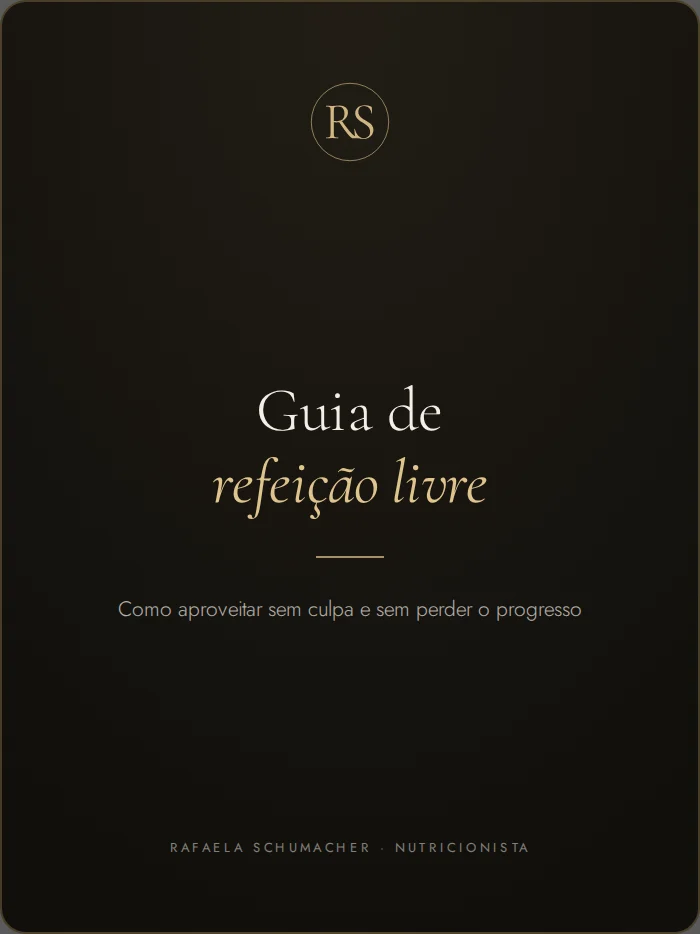
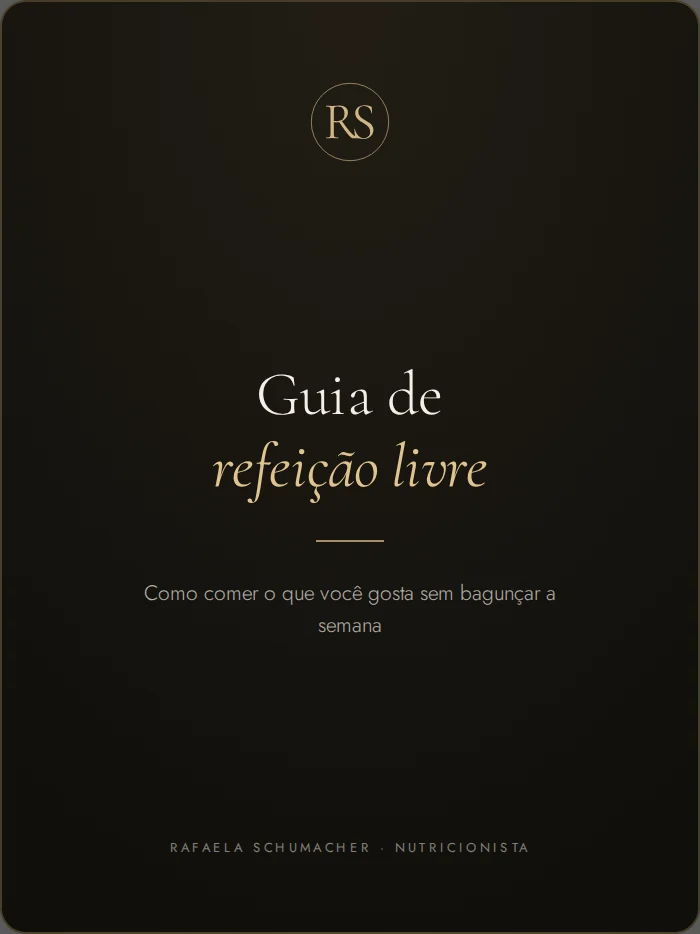
Reescreve os textos da secao de guias
A usuaria apontou que a redacao anterior soava a texto de maquina, e
estava certa. O que saiu e por que:

- "Guias para as horas em que o plano costuma escapar" era metafora
  construida; ninguem fala em plano que escapa.
- "Refeicao livre, mercado e comer fora SAO ONDE a maioria das pessoas
  trava" — essa forma de frase e tipica de texto gerado, e "a maioria
  das pessoas" e enchimento sem informacao.
- "sem culpa e sem perder o progresso" e o par de negativas dos
  anuncios.
- "Escolhas que cabem no plano em qualquer restaurante" nao diz o que a
  pessoa faz com o guia.

O titulo novo informa e para: "Voce recebe estes tres guias junto com o
plano". O paragrafo de apoio saiu junto — depois dessa frase ele nao
tinha o que acrescentar.

Uma versao intermediaria listava os tres guias no titulo, repetindo os
nomes que os cards logo abaixo ja trazem.

As legendas passam a dizer o que a pessoa faz com cada guia, no
vocabulario que ela ja usa no site (o "travar" vem de "trava na hora de
colocar em pratica", da secao "Para quem e"). As capas foram
regeneradas com os mesmos textos.

Claude-Session: https://claude.ai/code/session_01EWYA9aTYFfFpdajYDBcRLz

Changed region(s): [[0.3, 0.4036, 0.69, 0.5589], [0.18, 0.621, 0.81, 0.6831]]

diff --git a/index.html b/index.html
@@ -233,8 +233,7 @@
       <div class="container">
         <div class="section-head" data-reveal>
           <span class="eyebrow">Materiais</span>
-          <h2>Guias para as horas em que o plano costuma escapar.</h2>
-          <p>Refeição livre, mercado e comer fora são onde a maioria das pessoas trava. Você recebe um guia meu para cada um.</p>
+          <h2>Você recebe estes três guias junto com o plano.</h2>
         </div>
         <div class="guias__grid" data-reveal data-reveal-stagger>
           <figure class="guia" style="--i:0">
@@ -245,7 +244,7 @@
             </picture>
             <figcaption>
               <h3>Guia de refeição livre</h3>
-              <p>Como aproveitar sem culpa e sem perder o progresso.</p>
+              <p>Como comer o que você gosta sem bagunçar a semana.</p>
             </figcaption>
           </figure>
           <figure class="guia" style="--i:1">
@@ -256,7 +255,7 @@
             </picture>
             <figcaption>
               <h3>Guia para o mercado</h3>
-              <p>O que colocar no carrinho para a semana inteira.</p>
+              <p>O que colocar no carrinho para a semana.</p>
             </figcaption>
           </figure>
           <figure class="guia" style="--i:2">
@@ -267,7 +266,7 @@
             </picture>
             <figcaption>
               <h3>Guia para comer fora</h3>
-              <p>Escolhas que cabem no plano em qualquer restaurante.</p>
+              <p>Como escolher no cardápio sem travar.</p>
             </figcaption>
           </figure>
         </div>
